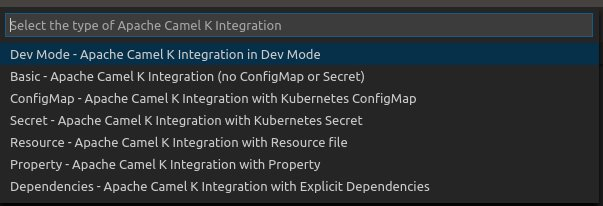
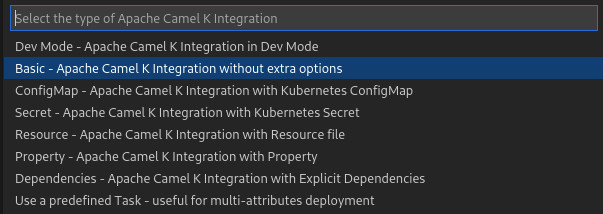
FUSETOOLS2-1194 - provide more accurate Start Integration basic with current options

diff --git a/src/IntegrationUtils.ts b/src/IntegrationUtils.ts
@@ -31,7 +31,7 @@ import { TelemetryEvent } from '@redhat-developer/vscode-redhat-telemetry/lib';
 
 const validNameRegex = /^[A-Za-z][A-Za-z0-9\-\.]*(?:[A-Za-z0-9]$){1}/;
 const devModeIntegration: string = 'Dev Mode - Apache Camel K Integration in Dev Mode';
-export const basicIntegration: string = 'Basic - Apache Camel K Integration (no ConfigMap or Secret)';
+export const basicIntegration: string = 'Basic - Apache Camel K Integration without extra options';
 const configMapIntegration: string = 'ConfigMap - Apache Camel K Integration with Kubernetes ConfigMap';
 const secretIntegration: string = 'Secret - Apache Camel K Integration with Kubernetes Secret';
 const resourceIntegration: string = 'Resource - Apache Camel K Integration with Resource file';

diff --git a/README.md b/README.md
@@ -86,7 +86,7 @@ You can start a new Camel K integration with or without additional options such 
 
     In “Dev Mode,” all output is directed to the Apache Camel K output channel, including startup tasks. In addition, when you update the integration file, the integration is re-deployed automatically for easier development and debugging. For more information about Dev Mode, see [Running in Dev Mode](https://camel.apache.org/camel-k/latest/running/dev-mode.html) in the Apache Camel-K documentation.
 
-* **Basic - Apache Camel K Integration (no ConfigMap or Secret)**
+* **Basic - Apache Camel K Integration**
 
     The "Basic" option starts the file as a new integration to deploy the integration to the running Kubernetes system.
 
